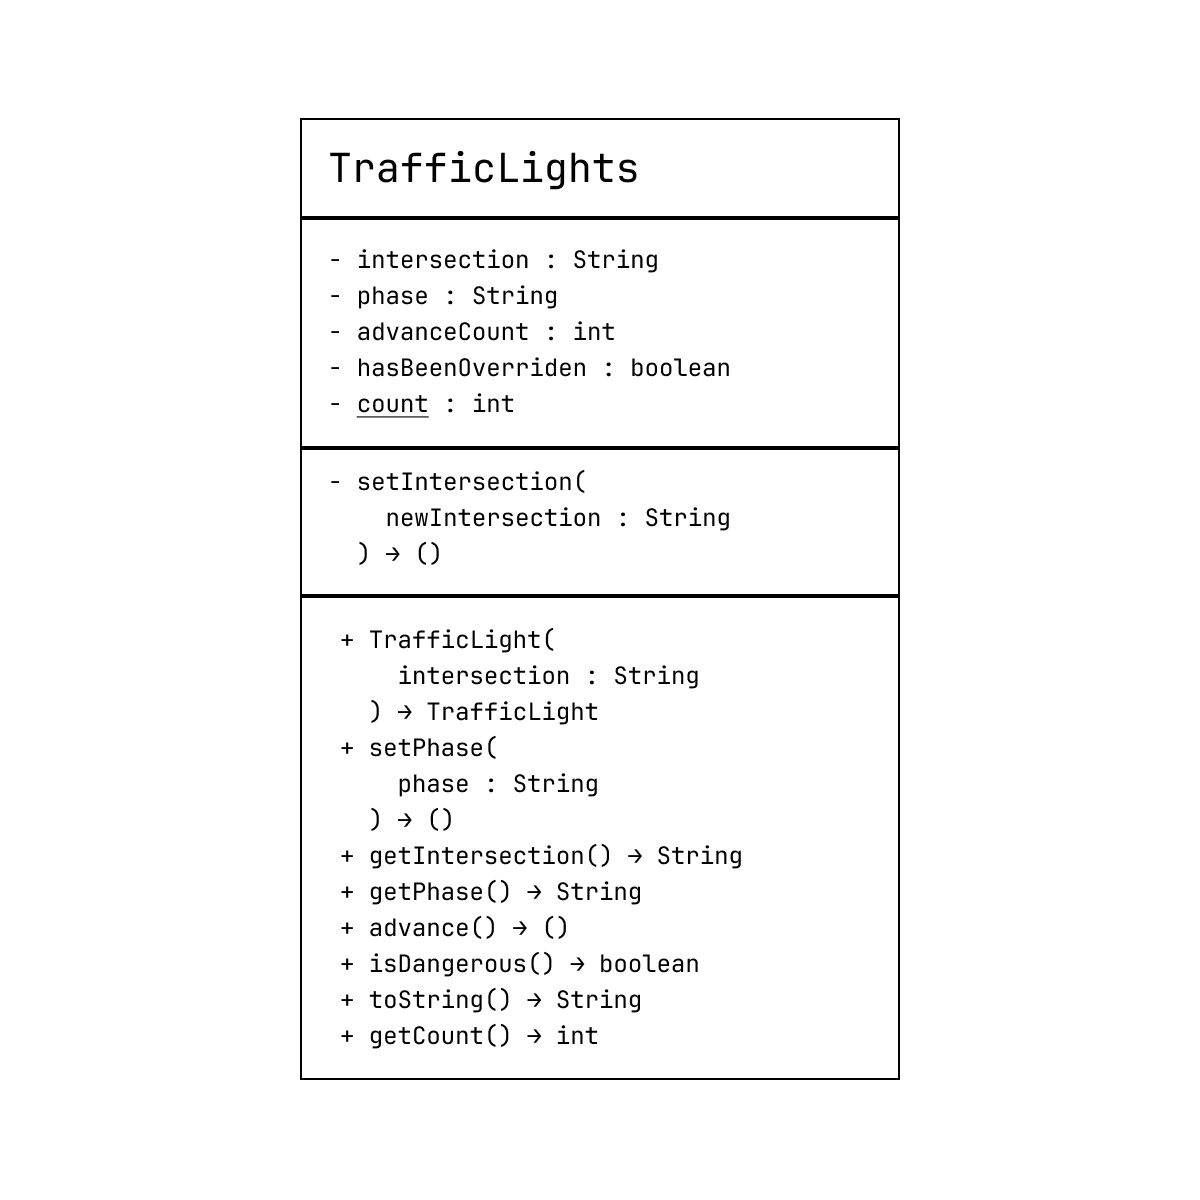
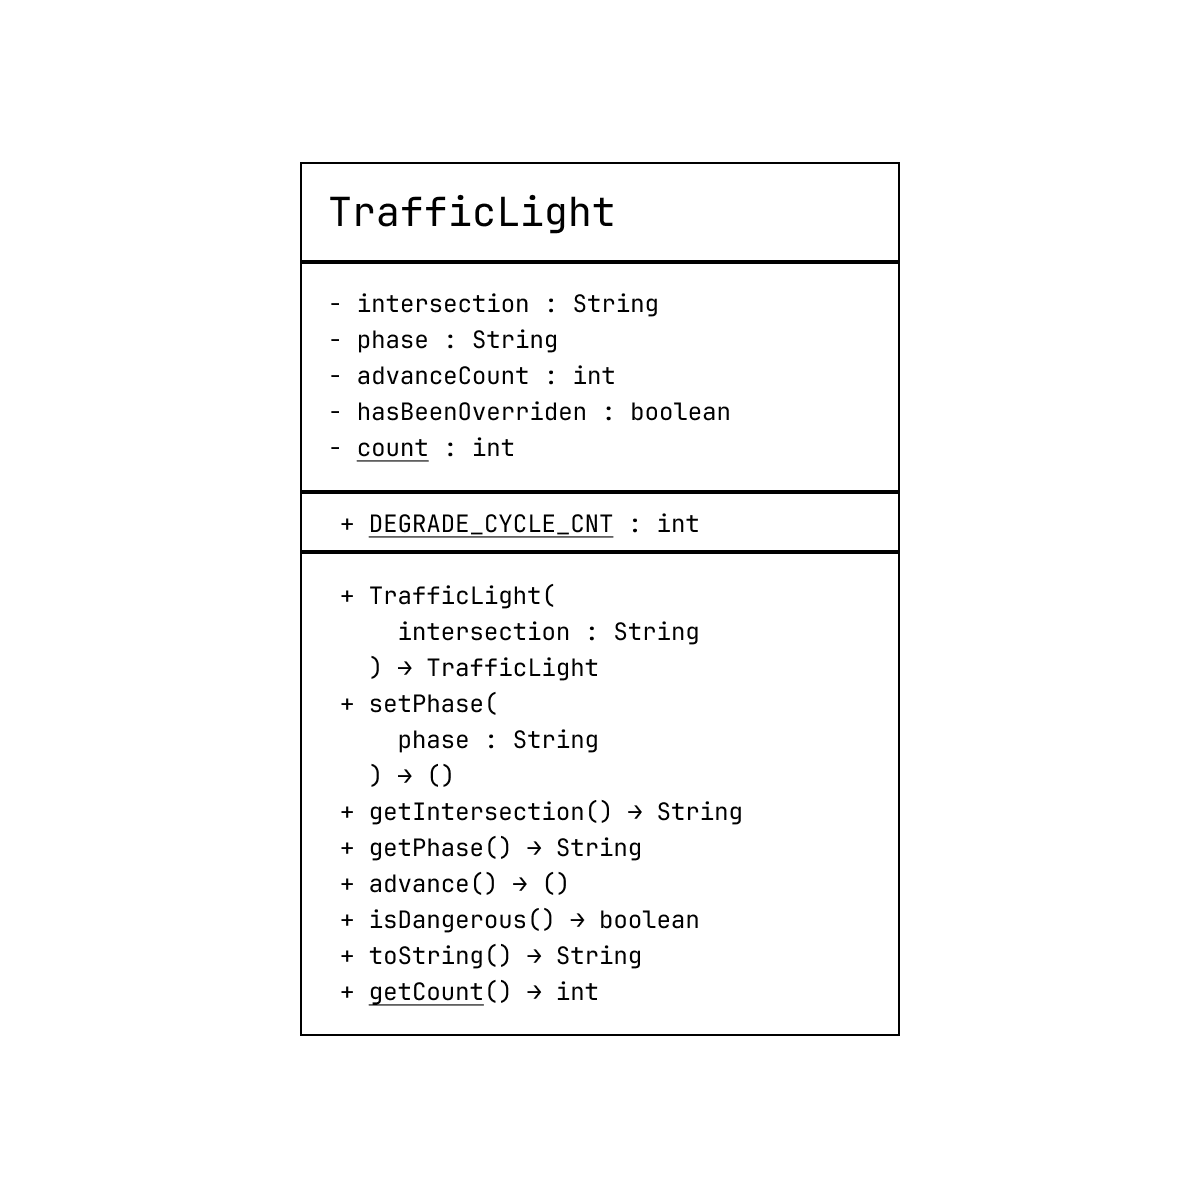
feat: completed APCSA Entry

Changed region(s): [[0.2467, 0.1233, 0.74, 0.8942]]

diff --git a/content/articles/260411-ap-computer-science-a-crash-course.md b/content/articles/260411-ap-computer-science-a-crash-course.md
@@ -5,6 +5,14 @@ createTime: 2026-04-11
 updateTime: 2026-04-11
 ---
 
+
+::WarningBox
+To be fair, this guide does not cover everything from APCSA. I didn't cover datasets, ethics, or wrapper classes. I only picked out what I assumed to be the sections that require emphasis during review. 
+
+**IF YOU WOULD LIKE ME TO ELABORATE ON ANY SECTION ON THE EXAM THAT I DIDN'T, SCROLL TO THE BOTTOM AND LEAVE A COMMENT TO LET ME KNOW.**
+::
+
+
 ::QuoteBox{source="Edsger W. Dijkstra"}
 Computer science is no more about computers than astronomy is about telescopes.
 ::
@@ -1543,6 +1551,10 @@ Try drawing the UML for TrafficLight, and you'll get this:
 
 > The biggest benefit of UML is that it is a **visual language**. You can sketch it anywhere -- on paper, on a whiteboard, in the margins of an exam -- and it gives you an immediate, at-a-glance reference while you code. Rather than re-reading a lengthy, noisy problem prompt every time you need to recall a method signature, the UML diagram puts everything in one compact, structured place.
 
+Note that here we utilized a public static constant `DEGRADE_CYCLE_CNT`. In UML convention, all caps correspond to immutable quantities or constants. The significance of this variable is that it abstracts the actual cycle threshold behind a named class constant rather than scattering a raw literal like 10000 throughout the code.
+
+> This is a practice known as avoiding **magic numbers** -- unnamed literals buried in logic that carry no inherent meaning to the reader. If the threshold ever needs to change, a magic number forces you to hunt down every occurrence and update them individually, risking an inconsistency if even one is missed. A named constant, by contrast, requires exactly one change in exactly one place, and every reference updates automatically.
+
 Let's implement the constructor first.
 ```java
 public TrafficLight(String intersection) {
@@ -1554,7 +1566,17 @@ public TrafficLight(String intersection) {
 }
 ```
 
-The constructor is pretty trivial since the prompt told us explicitly what to do. Getter methods are also pretty trivial:
+The constructor is pretty trivial since the prompt told us explicitly what to do. The next method is `setPhase()`. This is a method that returns `void` (denoted by `()` in UML) and its significance is by executing **side effects**, such as mutating variables or logging to streams. In this case, the method updates the traffic light's inner state:
+
+```java
+public void setPhase(String phase) {
+    this.phase = phase;
+    this.hasBeenOverriden = true;
+}
+```
+
+
+Getter methods are also pretty trivial:
 
 ```java
 public String getIntersection() {
@@ -1568,7 +1590,7 @@ public String getPhase() {
 
 Getter methods is a way of implementing ad-hoc read-only accessibility in Java. Therefore those methods are all basically of the same form.
 
-Next up is the method `advance()`. This is a method that returns `void` (denoted by `()` in UML) and its significance is by executing **side effects**, such as mutating variables or logging to streams. In this case, the method updates the traffic light's state:
+Next up is the method `advance()`. This is also a method for side effect.
 
 ```java
 public void advance() {
@@ -1583,14 +1605,89 @@ public void advance() {
 }
 ```
 
-And now the important method: `isDangerous()`.
+After clearifying all conditions and semantics of instance variables, `isDangerous()` becomes much easier to implement.
 
 ```java
 public boolean isDangerous() {
-    return this.advanceCount > 10
+    return this.advanceCount > TrafficLight.DEGRADE_CYCLE_CNT || this.hasBeenOverriden;
 }
 ```
 
+`toString` is also very principled string concatenation:
+
+```java
+public String toString() {
+    return "TrafficLight[" + this.intersection + ", " + this.phase  + ", advances: " + this.advanceCount + "]";
+}
+```
+
+Beware! `getCount` is a static method; it fetches the total count of traffic lights erected so it should be dispatched to the class itself. This can also be seen in the listing given in the prompt.
+
+```java
+public static int getCount() {
+    return TrafficLight.count;
+}
+```
+
+And we're done! Just remember to correctly implement the variables, and we're good to go.
+
+::Qabox{type=answer}
+
+```java
+public class TrafficLight {
+    private String intersection;
+    private String phase;
+    private int advanceCount;
+    private boolean hasBeenOverriden;
+    private static int count;
+
+    public static final int DEGRADE_CYCLE_CNT = 10000;
+
+    public TrafficLight(String intersection) {
+        this.intersection = intersection;
+        this.phase = "green";
+        this.advanceCount = 0;
+        this.hasBeenOverriden = false;
+        TrafficLight.count++;
+    } 
+
+    public void setPhase(String phase) {
+        this.phase = phase;
+        this.hasBeenOverriden = true;
+    }
+
+    public String getIntersection() {
+        return this.intersection;
+    }
+
+    public String getPhase() {
+        return this.phase;
+    }
+
+    public void advance() {
+        if (this.phase == "green") {
+            this.phase = "yellow";
+        } else if (this.phase == "yellow") {
+            this.phase = "red";
+        } else if (this.phase == "red") {
+            this.phase = "green";
+            this.advanceCount++;
+        }
+    }
+
+    public boolean isDangerous() {
+        return this.advanceCount > TrafficLight.DEGRADE_CYCLE_CNT || this.hasBeenOverriden;
+    }
+    
+    public String toString() {
+        return "TrafficLight[" + this.intersection + ", " + this.phase  + ", advances: " + this.advanceCount + "]";
+    }
+    public static int getCount() {
+        return TrafficLight.count;
+    }
+}
+```
+::
 
 ## Appendix / Cheatsheets
 
